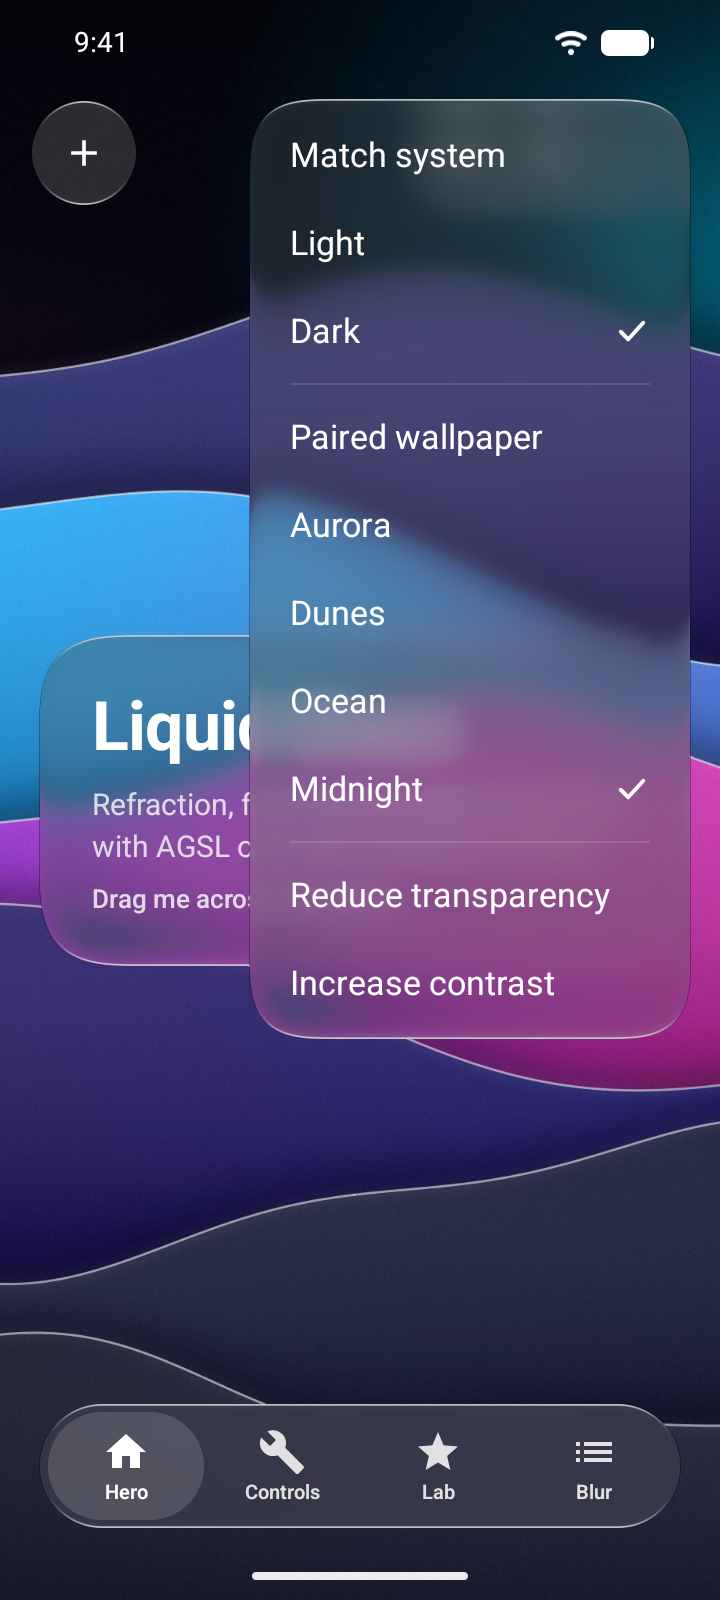
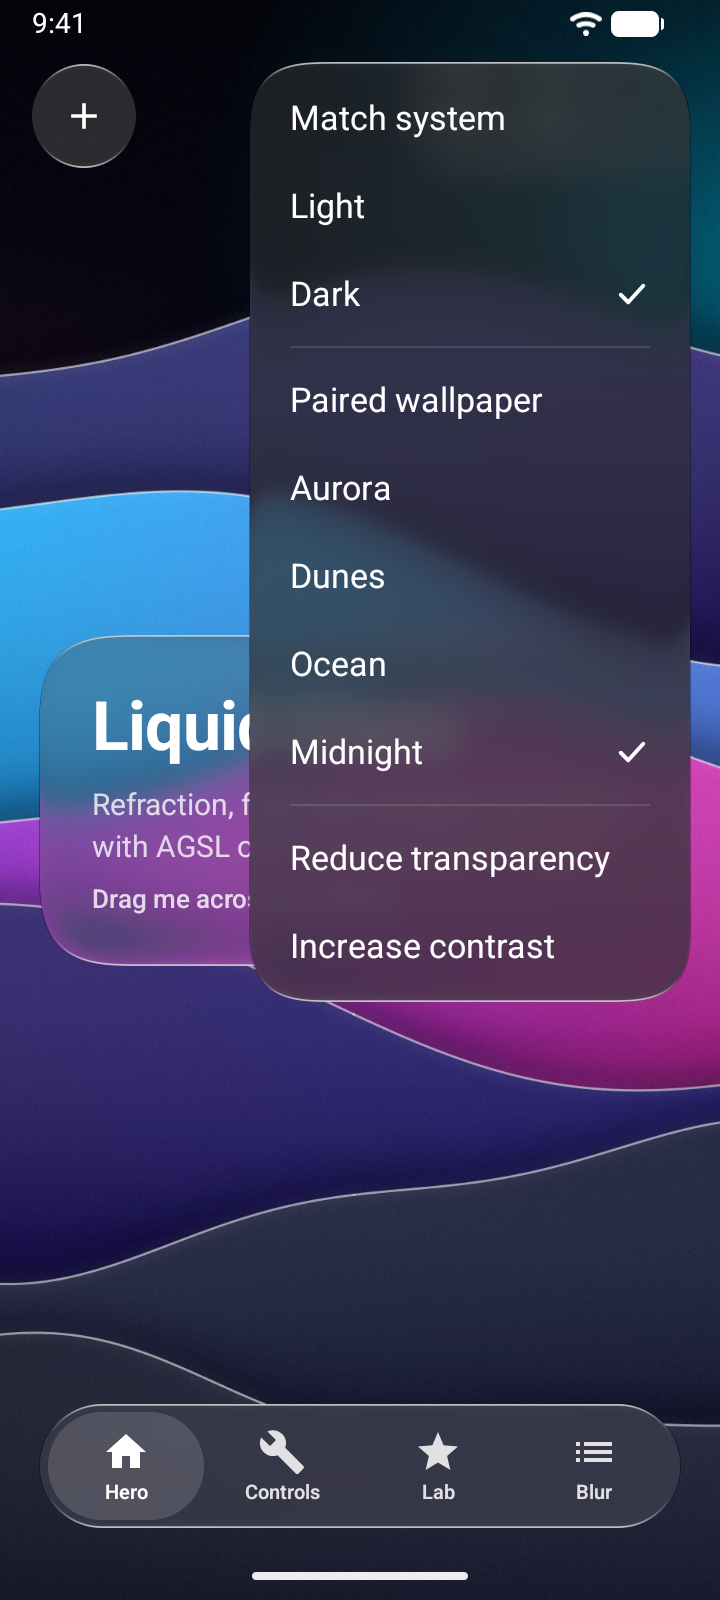
Docs: the Android guide and the liquid-glass-compose skill describe the menu panel's legibility backing (its glass mixed halfway toward #F5F5F7 light or #1C1C1E dark after the material color and tint, so untinted Regular menus keep 5:1 over any backdrop, the fallback material included, and need no s

diff --git a/docs/android.md b/docs/android.md
@@ -5,7 +5,7 @@ Native Liquid Glass for Android: refraction, Clear and Regular materials, rim li
 <p align="center">
   <img src="images/android/hero-dark.png" width="24%" alt="Hero: a frosted glass card over the Aurora wallpaper, with a floating toolbar and tab bar">
   <img src="images/android/controls-light.png" width="24%" alt="Controls, scrolled to the end: glass icon buttons, sliders and switches on a frosted card, a segmented tab bar and a menu trigger above the floating tab bar">
-  <img src="images/android/menu-dark.png" width="24%" alt="A Regular glass menu grown out of its toolbar button">
+  <img src="images/android/menu-dark.png" width="24%" alt="A Regular glass menu grown out of its toolbar button, its glass mixed halfway toward a solid dark backing so the white labels read over the wallpaper">
   <img src="images/android/blur-light.png" width="24%" alt="A scrolling journal under progressive edge blur and a glass toolbar">
 </p>
 
@@ -284,6 +284,8 @@ Row(verticalAlignment = Alignment.CenterVertically) {
 
 A Regular glass panel that grows out of its trigger on the morph spring, covering it, and collapses back into it. A menu opened from a `GlassToolbar` item grows out of, and covers, the item's whole cluster. Outside taps, Back and Escape dismiss it; choosing an item runs its action and dismisses it.
 
+The panel carries the legibility backing of [OPTICS §3](../spec/OPTICS.md#legibility-backing-menus): after the material color and tint, its glass is mixed halfway toward a solid `#F5F5F7` (light) or `#1C1C1E` (dark). Labels of an untinted Regular panel, in the glass foreground, therefore keep at least 5:1 contrast over any backdrop: 5.09:1 for white labels over white in dark appearance (1.8:1 without the backing) and 7.15:1 for `#111113` over black in light (2.1:1). The panel still refracts and frosts what lies behind it, at half strength. Other surfaces have no backing, and the amount is not an option.
+
 ```kotlin
 var open by remember { mutableStateOf(false) }
 GlassMenu(
@@ -298,7 +300,7 @@ GlassMenu(
 }
 ```
 
-`checked` is null for actions; `true` or `false` makes the item a choice, shown with a check mark and announced as checked or not (a checkbox). The panel is as wide as its widest item, at least 220 dp and at most the safe area's width; longer labels and large fonts wrap onto more lines, and a panel taller than the safe area scrolls. Outside a scene the menu opens in a popup with the fallback material.
+`checked` is null for actions; `true` or `false` makes the item a choice, shown with a check mark and announced as checked or not (a checkbox). The panel is as wide as its widest item, at least 220 dp and at most the safe area's width; longer labels and large fonts wrap onto more lines, and a panel taller than the safe area scrolls. Outside a scene the menu opens in a popup with the fallback material; the fallback material mixes the same backing into its fill, so menus read there and below Android 13 too.
 
 ### `GlassProgressiveBlur`
 
@@ -382,7 +384,7 @@ A press grows the surface by `min(16%, 8 dp / size)`. Dragging while pressed str
 | Wholly outside the `GlassContent`'s bounds | The fallback material (the content layer has nothing there to refract). Glass across the content's edge keeps the GPU glass. |
 | More than 16 surfaces | Surfaces beyond the limit get the fallback material (Regular surfaces over a platform blur, Clear ones a translucent fill). |
 
-Glass never crashes and never draws nothing.
+Glass never crashes and never draws nothing. Fallback menus mix the legibility backing into their fill like the GPU glass, so their labels stay legible.
 
 ## Limitations
 
@@ -422,7 +424,7 @@ The Gradle project lives in `platforms/android`. It needs JDK 17 and the Android
 ```sh
 cd platforms/android
 ./gradlew :liquidglass:testDebugUnitTest          # Kotlin optics vs spec/vectors.json
-./gradlew :liquidglass:connectedDebugAndroidTest  # shader vs spec/vectors.json and rendered glass vs the reference on the GPU (Android 13+); the fallback on older versions
+./gradlew :liquidglass:connectedDebugAndroidTest  # shader vs spec/vectors.json, rendered glass vs the reference and menu label contrast on the GPU (Android 13+); the fallback on older versions
 ./gradlew lint
 ./gradlew :liquidglass:publishReleasePublicationToArtifactsRepository :liquidglass:exportAar
 ./gradlew :studio:assembleRelease

diff --git a/plugins/liquid-glass/skills/liquid-glass-compose/SKILL.md b/plugins/liquid-glass/skills/liquid-glass-compose/SKILL.md
@@ -189,7 +189,7 @@ Every signature and default, with snippets: [references/api.md](references/api.m
 | `GlassTab(label, icon)` | One tab | `icon` (null = label-only) |
 | `GlassSlider(value, onValueChange)` | 44 dp tall, fills its width; white thumb lifts into glass; disabled = 45% | `enabled` (true), `valueRange` (`0f..1f`), `steps` (0), `onValueChangeFinished` (null), `tint` (platform accent), `appearance`, `motion`, `label` (null; TalkBack name) |
 | `GlassSwitch(checked, onCheckedChange)` | 54 × 24 dp track in a 54 × 44 dp touch box; disabled = 45% | `enabled` (true), `tint` (platform accent), `appearance`, `motion`, `label` (null; TalkBack name) |
-| `GlassMenu(expanded, onDismissRequest, trigger) { ColumnScope }` | Regular panel that grows out of its trigger (out of the whole cluster for a toolbar item) | `modifier` (the panel: as wide as its widest item, 220 dp to the safe width), `material` (`Regular`), `appearance`, `tint`, `shape` (`GlassShape(GlassDefaults.MenuRadius)` = 28 dp), `motion` |
+| `GlassMenu(expanded, onDismissRequest, trigger) { ColumnScope }` | Regular panel that grows out of its trigger (out of the whole cluster for a toolbar item), its glass mixed halfway toward a solid backing so labels keep 5:1 over any backdrop | `modifier` (the panel: as wide as its widest item, 220 dp to the safe width), `material` (`Regular`), `appearance`, `tint`, `shape` (`GlassShape(GlassDefaults.MenuRadius)` = 28 dp), `motion` |
 | `GlassMenuItem(text, onClick)` / `GlassMenuDivider()` | Menu row ≥ 44 dp, label wraps; separator | `icon` (null), `enabled` (true), `destructive` (false), `checked` (null = action, true/false = choice) |
 | `GlassProgressiveBlur(edge)` | Progressive edge blur of the backdrop under bars | `modifier`, `size` (`GlassDefaults.ProgressiveBlurSize` = 80.dp), `blur` (`GlassDefaults.ProgressiveBlurRadius` = 20.dp) |
 | `GlassShape(radius)`, `GlassShape.Capsule`, `GlassShape.Circle` | Continuous-corner `Shape`, also for `clip`/`border` | `radius` finite, ≥ 0 |
@@ -348,7 +348,7 @@ Box(
 - `GlassScene` content is a `BoxScope`: position glass with `Modifier.align(...)`, insets (`statusBarsPadding()`, `navigationBarsPadding()`) and padding. Call `enableEdgeToEdge()` so the backdrop runs under the system bars.
 - Material 3 `Scaffold`: never put glass in its `topBar`, `bottomBar` or `floatingActionButton` slots outside a scene (fallback with nothing behind it), and never place a default `Scaffold` in the scene after `GlassContent` (its `containerColor` covers every glass body). Put the `Scaffold` inside `GlassContent` as the backdrop and the glass bars in the scene, or put a `Scaffold(containerColor = Color.Transparent)` in the scene after `GlassContent` with the glass bars in its slots and an empty body (the backdrop stays in `GlassContent`). Pad lists with `WindowInsets` yourself.
 - Modifier order: size, place, then `liquidGlass`, then `clickable`, then inner `padding`. `Modifier.padding(16.dp).liquidGlass()` insets the glass; `Modifier.liquidGlass().padding(16.dp)` pads the content.
-- Never add `background`, `blur` or `shadow` modifiers to a glass element to strengthen it: they cover or smear the glass. Use `material = GlassMaterial.Regular`, `tint` or `refraction` instead.
+- Never add `background`, `blur` or `shadow` modifiers to a glass element to strengthen it: they cover or smear the glass. Use `material = GlassMaterial.Regular`, `tint` or `refraction` instead. `GlassMenu` panels already mix their glass halfway toward a solid backing (`#F5F5F7` / `#1C1C1E`, also in the fallback material), so menu labels need no scrim or panel background.
 - Cap widths for tablets, foldables and landscape: `.widthIn(max = 480.dp).fillMaxWidth()` for toolbars and tab bars, `widthIn(max = 420.dp)` for cards.
 - `GlassMenu`'s `modifier` is the panel. Place the menu by wrapping it in a `Box(Modifier.align(...))`, a `Row`, or a `GlassToolbar` (an icon `GlassButton` trigger becomes a toolbar item). `Modifier.align` on the trigger itself has no effect.
 - `GlassToolbar` content is a plain lambda, not a `RowScope`: no `weight`; use `GlassToolbarSpacer()` (flexible) for space and give the toolbar `fillMaxWidth()` so spacers can spread. Only `GlassButton`s become borderless items; other composables are placed as they are. Group related actions in one toolbar instead of rows of standalone `GlassButton`s.

diff --git a/plugins/liquid-glass/skills/liquid-glass-compose/references/api.md b/plugins/liquid-glass/skills/liquid-glass-compose/references/api.md
@@ -660,6 +660,8 @@ Row(Modifier.fillMaxWidth(), verticalAlignment = Alignment.CenterVertically) {
 
 A menu that grows out of its trigger: a Regular glass panel morphing from the trigger's outline on the morph spring (0.42 s, bounce 0.18), covering it, and collapsing back into it when dismissed. The trigger fades out as the panel grows. Opened from a `GlassToolbar` item, the panel grows out of and covers the item's whole cluster. Tapping outside, Back and Escape dismiss it; choosing an item runs its action and dismisses it. The panel is a pane titled "Menu" for TalkBack, takes focus when it opens and returns focus to the trigger for keyboard users when it closes.
 
+The panel's glass is mixed halfway toward a solid backing, `#F5F5F7` light and `#1C1C1E` dark, after the material color and tint (the legibility backing of `spec/OPTICS.md` §3), so the labels of an untinted Regular panel keep at least 5:1 contrast over any backdrop (5.09:1 white over white in dark, 7.15:1 `#111113` over black in light; Regular glass alone gives 1.8:1 and 2.1:1 there). It still refracts and frosts the backdrop, at half strength. The fallback material folds the same backing into its fill. Only menu panels have it, and it is not an option.
+
 Inside a `GlassScene` the panel is drawn in the **outermost** scene's overlay, above every nested scene's glass, and refracts that scene. It is placed over the trigger (aligned to the trigger's top, or bottom when there is no room, and to its nearer side) and kept inside the safe drawing insets plus an 8 dp margin. Outside a scene it opens in a `Popup` with the fallback material, following the system's dark theme unless you pass `appearance`.
 
 ```kotlin
@@ -698,7 +700,7 @@ public fun GlassMenuDivider()
 | `onDismissRequest` | | Called on outside tap, Back, Escape, TalkBack "collapse" and after an item is chosen. Set `expanded = false` here. |
 | `trigger` | | The control that opens the menu, usually a `GlassButton` whose `onClick` sets `expanded = true`. The panel grows out of its bounds. |
 | `modifier` | `Modifier` | Modifier of the **panel**, not the trigger. The panel is as wide as its widest item, at least 220 dp and at most the safe area's width minus 8 dp margins (`Modifier.width(280.dp)` fixes it), with a 6 dp inset; taller than the safe area, it scrolls. To place the trigger, wrap the `GlassMenu` in a `Box(Modifier.align(…))` or put it in a `Row` / `GlassToolbar`. |
-| `material` | `GlassMaterial.Regular` | The panel's material. |
+| `material` | `GlassMaterial.Regular` | The panel's material; the legibility backing applies to either. |
 | `appearance` | null | |
 | `tint` | `Color.Unspecified` | Colors the panel's glass. |
 | `shape` | `GlassShape(28.dp)` | The panel's outline. |

diff --git a/plugins/liquid-glass/skills/liquid-glass-compose/references/recipes.md b/plugins/liquid-glass/skills/liquid-glass-compose/references/recipes.md
@@ -543,6 +543,7 @@ Notes:
 - In a `GlassToolbar`, put the `GlassMenu` straight in the toolbar's content with an icon `GlassButton` as the trigger: `trigger = { GlassButton(Icons.Filled.MoreVert, "More", onClick = { open = true }) }`. The toolbar positions it.
 - Keep `open` in `remember`, not `rememberSaveable`: a menu should not reopen after a configuration change.
 - Inside a scene the panel draws in the scene's overlay (the outermost scene when nested) and refracts the whole scene. Outside any scene it opens in a `Popup` with the fallback material.
+- The panel brings its own legibility backing (its glass mixed halfway toward `#F5F5F7` / `#1C1C1E`), so its labels read over white photos in dark appearance and over black in light: add no background or scrim to it.
 - The panel is as wide as its widest item (220 dp at least, the safe width at most) and long labels wrap; pass `modifier = Modifier.width(280.dp)` to fix it. Items are 44 dp tall with 22 dp corners inside the 28 dp panel (6 dp inset): concentric.
 
 ## 6. Progressive blur over a scrolling list
